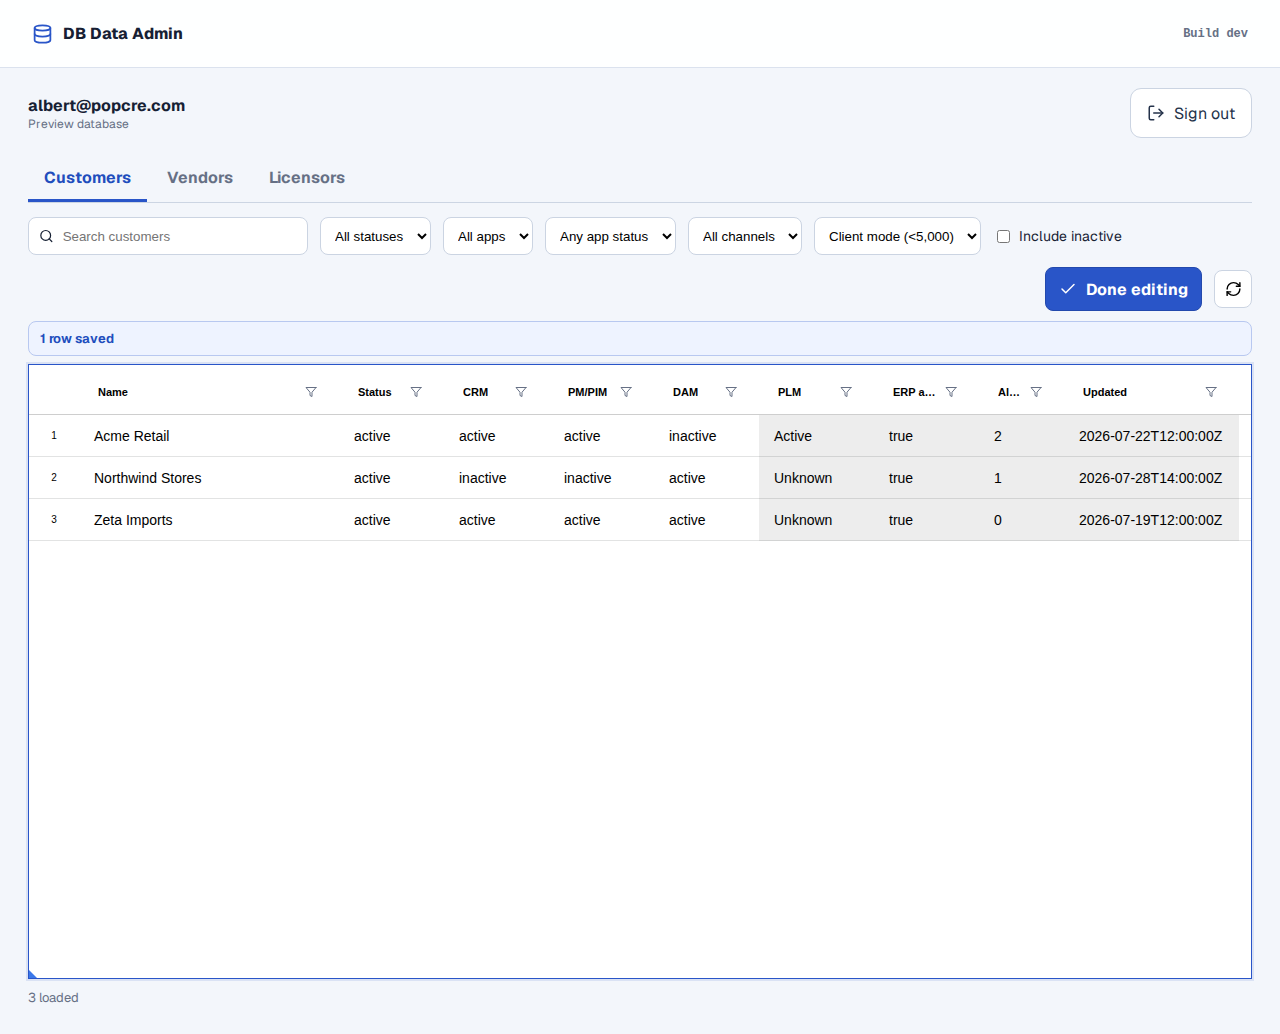
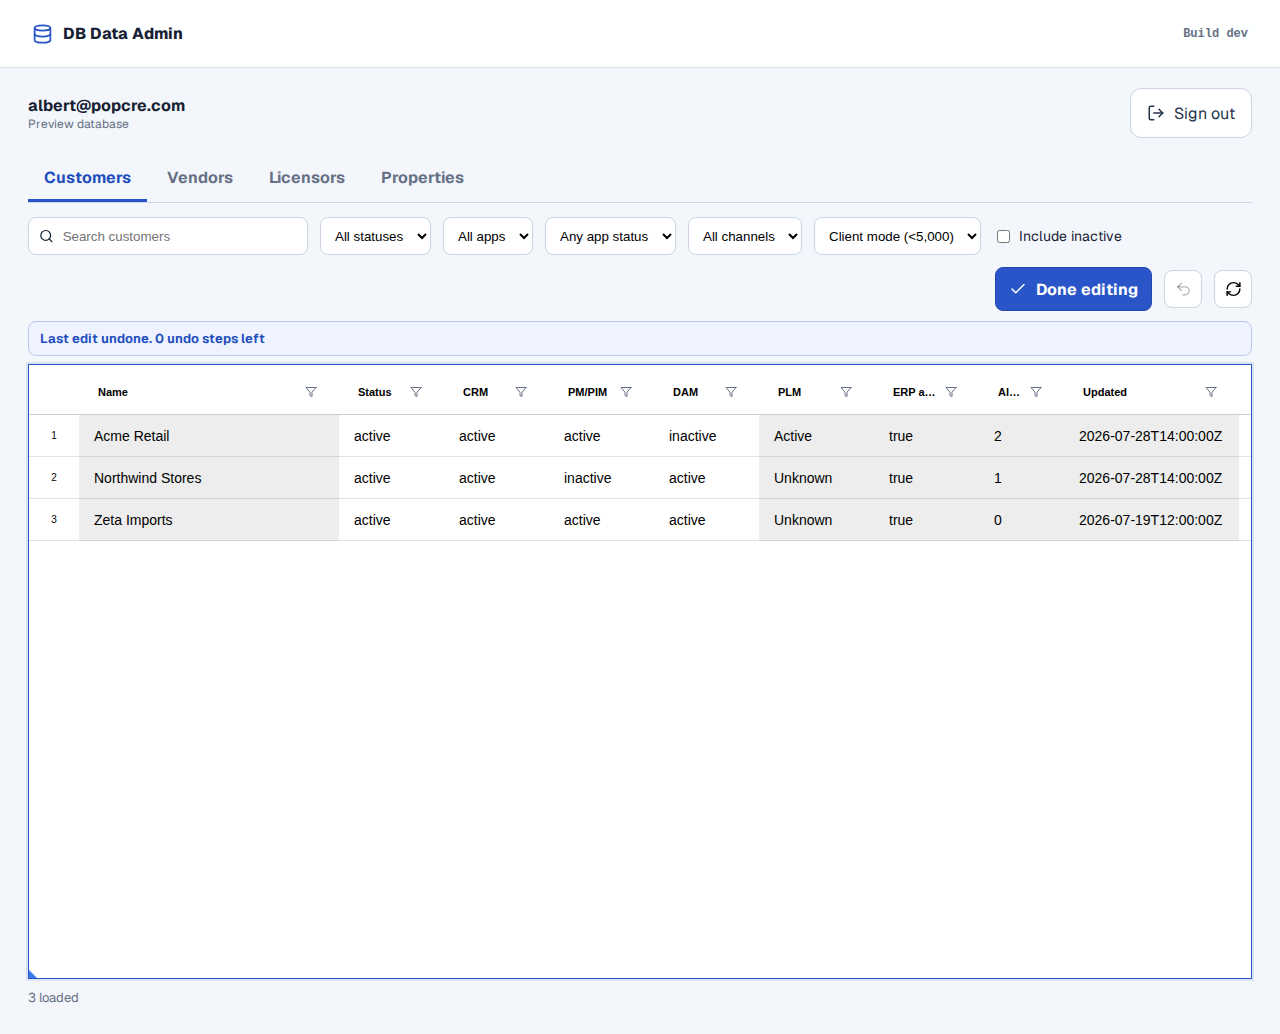
feat: add undo history to data admin edits

Changed region(s): [[0.7812, 0.2476, 0.9375, 0.3095], [0.0312, 0.3095, 0.2188, 0.3404], [0.2812, 0.1547, 0.375, 0.1857]]

diff --git a/apps/db-data-admin/src/DataAdmin.tsx b/apps/db-data-admin/src/DataAdmin.tsx
@@ -1,5 +1,5 @@
 import { Editor, RevoGrid, Template, type BeforeRangeSaveDataDetails, type BeforeSaveDataDetails, type ColumnRegular, type Editors, type EditorType } from '@revolist/react-datagrid'
-import { Check, ChevronRight, GitMerge, History, LogOut, Pencil, RefreshCw, Search, X } from 'lucide-react'
+import { Check, ChevronRight, GitMerge, History, LogOut, Pencil, RefreshCw, Search, Undo2, X } from 'lucide-react'
 import { useCallback, useEffect, useMemo, useRef, useState } from 'react'
 import { executeMerge, initialQuery, loadAllRows, loadAudit, loadDetail, loadGridState, loadRows, previewMerge, probeAccess, saveGridState, searchMergeCandidates, updateRecord, type AdminRow, type ApiClient, type AuditEvent, type EntityKind, type MergeResult, type QueryState, type UpdateInput } from './lib/data-admin'
 import {
@@ -11,7 +11,7 @@ import { RecordEditor } from './RecordEditor'
 import { MergeDialog } from './MergeDialog'
 import { LicensorTree } from './LicensorTree'
 import { PropertyTable } from './PropertyTable'
-import { INLINE_EDITABLE_PROPS, saveInlineRow } from './lib/inline-edit'
+import { INLINE_EDITABLE_PROPS, INLINE_EDIT_REASON, INLINE_UNDO_REASON, saveInlineRow } from './lib/inline-edit'
 import { FilterHeader, type HeaderProps } from './FilterHeader'
 
 // Re-exported so existing imports (and tests) can keep reaching these here.
@@ -19,6 +19,7 @@ export { FilterHeader }
 export type { HeaderProps }
 
 type Props = { client: ApiClient; email?: string; onSignOut: () => void }
+type UndoStep = Array<{ id: string; changes: Record<string, unknown> }>
 
 export function StatusDropdownEditor({ column, val, save, close }: EditorType) {
   const isGlobalStatus = String(column.prop) === 'status'
@@ -86,6 +87,7 @@ export function DataAdmin({ client, email, onSignOut }: Props) {
   const [inlineEditing, setInlineEditing] = useState(false)
   const [inlineSaving, setInlineSaving] = useState(0)
   const [inlineMessage, setInlineMessage] = useState<string | null>(null)
+  const [undoStack, setUndoStack] = useState<UndoStep[]>([])
   const version = useRef(0)
   const saveTimer = useRef<ReturnType<typeof setTimeout> | null>(null)
   const filterTimer = useRef<ReturnType<typeof setTimeout> | null>(null)
@@ -106,7 +108,7 @@ export function DataAdmin({ client, email, onSignOut }: Props) {
     // preferred alternative is remounting via a `key`, which this screen cannot
     // use yet because the cursor/grid-state refs must survive a tab switch.
     // eslint-disable-next-line react-hooks/set-state-in-effect
-    setDenied(false); setRows([]); setFilters({}); setActiveFilters({}); setSetFiltersState({}); setDetail(null); setLoading(true)
+    setDenied(false); setRows([]); setFilters({}); setActiveFilters({}); setSetFiltersState({}); setDetail(null); setUndoStack([]); setLoading(true)
     void (async () => {
       try {
         const allowedChannels = await probeAccess(client)
@@ -223,22 +225,68 @@ export function DataAdmin({ client, email, onSignOut }: Props) {
     if (detail) void loadAudit(client, kind, String(detail.id)).then(setAudit)
   }
 
-  const persistInlineChanges = async (pending: Array<{ row: AdminRow; changes: Record<string, unknown> }>) => {
-    if (!inlineEditing || pending.length === 0) return
+  const persistInlineChanges = async (
+    pending: Array<{ row: AdminRow; changes: Record<string, unknown> }>,
+    options: { recordHistory?: boolean; reason?: string; allowOutsideEditMode?: boolean } = {},
+  ) => {
+    if ((!inlineEditing && !options.allowOutsideEditMode) || pending.length === 0) return false
+    const inverse: UndoStep = pending.map(({ row, changes }) => ({
+      id: row.id,
+      changes: Object.fromEntries(
+        Object.keys(changes)
+          .filter(prop => INLINE_EDITABLE_PROPS.has(prop))
+          .map(prop => [prop, row[prop]]),
+      ),
+    })).filter(entry => Object.keys(entry.changes).length > 0)
     setInlineSaving(count => count + pending.length)
     setInlineMessage(null)
     try {
       const savedRows = await Promise.all(pending.map(({ row, changes }) =>
-        saveInlineRow(kind, row, changes, (entityKind, id, input) => updateRecord(client, entityKind, id, input)),
+        saveInlineRow(
+          kind,
+          row,
+          changes,
+          (entityKind, id, input) => updateRecord(client, entityKind, id, input),
+          options.reason ?? INLINE_EDIT_REASON,
+        ),
       ))
       const byId = new Map(savedRows.map(row => [row.id, row]))
       setRows(current => current.map(row => byId.has(row.id) ? { ...row, ...byId.get(row.id) } : row))
+      if (options.recordHistory !== false && inverse.length > 0) {
+        setUndoStack(current => [...current, inverse].slice(-10))
+      }
       setInlineMessage(`${savedRows.length} ${savedRows.length === 1 ? 'row' : 'rows'} saved`)
+      return true
     } catch (cause) {
       setError(cause instanceof Error ? cause.message : 'The table change was not saved.')
       await fetchRows()
+      setUndoStack([])
+      return false
     } finally {
       setInlineSaving(count => Math.max(0, count - pending.length))
+    }
+  }
+
+  const undoLastInlineEdit = async () => {
+    const step = undoStack.at(-1)
+    if (!step) return
+    const pending = step.flatMap(({ id, changes }) => {
+      const row = rows.find(candidate => candidate.id === id)
+      return row ? [{ row, changes }] : []
+    })
+    if (pending.length !== step.length) {
+      setError('Undo history no longer matches the loaded rows. Refresh the table.')
+      setUndoStack([])
+      return
+    }
+    const restored = await persistInlineChanges(pending, {
+      recordHistory: false,
+      reason: INLINE_UNDO_REASON,
+      allowOutsideEditMode: true,
+    })
+    if (restored) {
+      setUndoStack(current => current.slice(0, -1))
+      setInlineMessage(`Last edit undone. ${Math.max(0, undoStack.length - 1)} undo ${undoStack.length - 1 === 1 ? 'step' : 'steps'} left`)
     }
   }
 
@@ -296,7 +344,23 @@ export function DataAdmin({ client, email, onSignOut }: Props) {
         {inlineEditing ? <Check /> : <Pencil />}
         {inlineEditing ? 'Done editing' : 'Edit table'}
       </button>
-      <button className="icon-button" aria-label="Refresh" onClick={() => void fetchRows()}><RefreshCw /></button>
+      <button
+        className="icon-button"
+        aria-label="Undo last table edit"
+        title={`Undo last table edit${undoStack.length ? ` (${undoStack.length} available)` : ''}`}
+        disabled={undoStack.length === 0 || inlineSaving > 0}
+        onClick={() => void undoLastInlineEdit()}
+      >
+        <Undo2 />
+      </button>
+      <button
+        className="icon-button"
+        aria-label="Refresh table"
+        title="Refresh table"
+        onClick={() => { setUndoStack([]); void fetchRows() }}
+      >
+        <RefreshCw />
+      </button>
     </div>
     {error && <div className="inline-error" role="alert">{error}</div>}
     {(inlineMessage || inlineSaving > 0) && <div className="inline-edit-message" role="status">{inlineSaving ? 'Saving changes…' : inlineMessage}</div>}

diff --git a/apps/db-data-admin/tests/browser/grid.spec.ts b/apps/db-data-admin/tests/browser/grid.spec.ts
@@ -120,8 +120,16 @@ test('enables in-table editing and saves RevoGrid drag-fill changes', async ({ p
   await expect.poll(() => grid.evaluate(element => (element as HTMLElement & { readonly: boolean }).readonly)).toBe(true)
   await page.getByRole('button', { name: 'Edit table' }).click()
   await expect(page.getByRole('button', { name: 'Done editing' })).toBeVisible()
+  await expect(page.getByRole('button', { name: 'Refresh table' })).toHaveAttribute('title', 'Refresh table')
+  const undo = page.getByRole('button', { name: 'Undo last table edit' })
+  await expect(undo).toBeDisabled()
+  await expect(undo).toHaveAttribute('title', 'Undo last table edit')
   await expect.poll(() => grid.evaluate(element => (element as HTMLElement & { readonly: boolean }).readonly)).toBe(false)
   await expect(page.getByRole('status')).toContainText('Edit mode is on')
+
+  // Name is display-only even while the rest of the approved table fields are editable.
+  await page.getByRole('gridcell', { name: 'Acme Retail' }).dblclick()
+  await expect(page.locator('revogr-edit input')).toHaveCount(0)
 
   // Opening a status cell uses a strict select editor, not RevoGrid's default
   // free-text input.
@@ -138,6 +146,8 @@ test('enables in-table editing and saves RevoGrid drag-fill changes', async ({ p
     p_status: 'potential',
   })
   await expect(page.getByRole('status')).toContainText('1 row saved')
+  await expect(undo).toBeEnabled()
+  await expect(undo).toHaveAttribute('title', 'Undo last table edit (1 available)')
 
   // RevoGrid emits beforerangeedit for drag-to-copy/autofill. Dispatch the same
   // public event shape here so the test covers our persistence adapter without
@@ -164,6 +174,26 @@ test('enables in-table editing and saves RevoGrid drag-fill changes', async ({ p
     p_app_status: 'inactive',
   })
   await expect(page.getByRole('status')).toContainText('1 row saved')
+  await expect(undo).toHaveAttribute('title', 'Undo last table edit (2 available)')
+
+  // A drag-fill is one undo step, followed by the earlier single-cell edit.
+  await undo.click()
+  await expect.poll(() => updates.length).toBe(3)
+  expect(updates[2]).toMatchObject({
+    p_customer_id: customers[1].id,
+    p_reason: 'Undid table edit',
+    p_app: 'crm',
+    p_app_status: 'active',
+  })
+  await expect(undo).toHaveAttribute('title', 'Undo last table edit (1 available)')
+  await undo.click()
+  await expect.poll(() => updates.length).toBe(4)
+  expect(updates[3]).toMatchObject({
+    p_customer_id: customers[0].id,
+    p_reason: 'Undid table edit',
+    p_status: 'active',
+  })
+  await expect(undo).toBeDisabled()
   await page.screenshot({ path: '../../docs/verification/db-data-admin-inline-edit.png', fullPage: true })
 })
 

diff --git a/apps/db-data-admin/src/lib/inline-edit.test.ts b/apps/db-data-admin/src/lib/inline-edit.test.ts
@@ -1,5 +1,5 @@
 import { describe, expect, it, vi } from 'vitest'
-import { buildInlineUpdate, INLINE_EDIT_REASON, saveInlineRow } from './inline-edit'
+import { buildInlineUpdate, INLINE_EDIT_REASON, INLINE_UNDO_REASON, saveInlineRow } from './inline-edit'
 
 const row = {
   id: 'customer-1',
@@ -12,11 +12,6 @@ const row = {
 
 describe('inline table editing', () => {
   it('maps editable grid columns to the existing guarded update contract', () => {
-    expect(buildInlineUpdate(row, 'name_display', 'Acme North')).toEqual({
-      expectedUpdatedAt: row.updated_at,
-      reason: INLINE_EDIT_REASON,
-      displayName: 'Acme North',
-    })
     expect(buildInlineUpdate(row, 'crm_status', 'inactive')).toEqual({
       expectedUpdatedAt: row.updated_at,
       reason: INLINE_EDIT_REASON,
@@ -27,21 +22,24 @@ describe('inline table editing', () => {
 
   it('rejects invalid and read-only values before calling the API', () => {
     expect(() => buildInlineUpdate(row, 'status', 'archived')).toThrow(/active, potential, or inactive/)
+    expect(() => buildInlineUpdate(row, 'name_display', 'Acme North')).toThrow(/read-only/)
     expect(() => buildInlineUpdate(row, 'erp_active', 'false')).toThrow(/read-only/)
   })
 
   it('uses each saved row as the concurrency token for the next cell', async () => {
     const update = vi.fn()
-      .mockResolvedValueOnce({ success: true, row: { ...row, display_name: 'Acme North', updated_at: 'token-2' } })
-      .mockResolvedValueOnce({ success: true, row: { ...row, display_name: 'Acme North', status: 'inactive', updated_at: 'token-3' } })
+      .mockResolvedValueOnce({ success: true, row: { ...row, status: 'inactive', updated_at: 'token-2' } })
+      .mockResolvedValueOnce({ success: true, row: { ...row, status: 'inactive', crm_status: 'inactive', updated_at: 'token-3' } })
 
     const saved = await saveInlineRow('customer', row, {
-      name_display: 'Acme North',
       status: 'inactive',
-    }, update)
+      crm_status: 'inactive',
+    }, update, INLINE_UNDO_REASON)
 
     expect(update).toHaveBeenCalledTimes(2)
     expect(update.mock.calls[1][2].expectedUpdatedAt).toBe('token-2')
+    expect(update.mock.calls[0][2].reason).toBe(INLINE_UNDO_REASON)
+    expect(update.mock.calls[1][2].reason).toBe(INLINE_UNDO_REASON)
     expect(saved.updated_at).toBe('token-3')
   })
 })

diff --git a/apps/db-data-admin/src/lib/inline-edit.ts b/apps/db-data-admin/src/lib/inline-edit.ts
@@ -1,7 +1,8 @@
 import type { AdminRow, EntityKind, UpdateInput, UpdateResult } from './data-admin'
 
 export const INLINE_EDIT_REASON = 'Edited in table'
-export const INLINE_EDITABLE_PROPS = new Set(['name_display', 'status', 'crm_status', 'pm_status', 'dam_status'])
+export const INLINE_UNDO_REASON = 'Undid table edit'
+export const INLINE_EDITABLE_PROPS = new Set(['status', 'crm_status', 'pm_status', 'dam_status'])
 
 const GLOBAL_STATUSES = new Set(['active', 'potential', 'inactive'])
 const APP_STATUSES = new Set(['active', 'inactive'])
@@ -21,7 +22,6 @@ export function buildInlineUpdate(
   const text = value == null ? '' : String(value).trim()
   const base = { expectedUpdatedAt: String(row.updated_at), reason }
 
-  if (prop === 'name_display') return { ...base, displayName: text }
   if (prop === 'status') {
     if (!GLOBAL_STATUSES.has(text)) throw new Error('Status must be active, potential, or inactive.')
     return { ...base, status: text }
@@ -48,16 +48,15 @@ export async function saveInlineRow(
   row: AdminRow,
   changes: Record<string, unknown>,
   update: InlineUpdateCall,
+  reason = INLINE_EDIT_REASON,
 ): Promise<AdminRow> {
   let current = row
   for (const [prop, value] of Object.entries(changes)) {
     if (!INLINE_EDITABLE_PROPS.has(prop)) continue
-    const displayedCurrent = prop === 'name_display'
-      ? String(current.display_name ?? current.name ?? '')
-      : String(current[prop] ?? '')
+    const displayedCurrent = String(current[prop] ?? '')
     if (displayedCurrent === String(value ?? '').trim()) continue
 
-    const result = await update(kind, current.id, buildInlineUpdate(current, prop, value))
+    const result = await update(kind, current.id, buildInlineUpdate(current, prop, value, reason))
     if (!result.success || !result.row) {
       throw new Error(result.code === 'stale_token'
         ? 'This row changed elsewhere. Refresh the table, then try again.'

diff --git a/apps/db-data-admin/README.md b/apps/db-data-admin/README.md
@@ -55,11 +55,13 @@ without baking environment-specific configuration into it.
 ## In-table editing
 
 Customers and Vendors have an **Edit table** button. While edit mode is on,
-administrators can edit the curated Name, global Status, CRM, PM/PIM, and DAM
-status cells directly. Name remains a text editor. Global Status is strictly
-limited to Active, Potential, or Inactive; each application status is strictly
-limited to Active or Inactive. RevoGrid's native copy, paste, and drag-fill
-behavior is enabled for those cells. ERP, PLM, alias count, and timestamp
+administrators can edit global Status, CRM, PM/PIM, and DAM status cells
+directly. Name is read-only. Global Status is strictly limited to Active,
+Potential, or Inactive; each application status is strictly limited to Active
+or Inactive. RevoGrid's native copy, paste, and drag-fill behavior is enabled
+for those cells. The Undo button reverses up to the last 10 edit actions; one
+multi-row drag-fill counts as one action. Refresh clears local undo history.
+ERP, PLM, alias count, and timestamp
 columns remain read-only. Every changed row is saved immediately through the existing guarded
 single-record RPC with optimistic-concurrency checks and the audit reason
 `Edited in table`; a failed or stale save reloads the grid instead of leaving an
